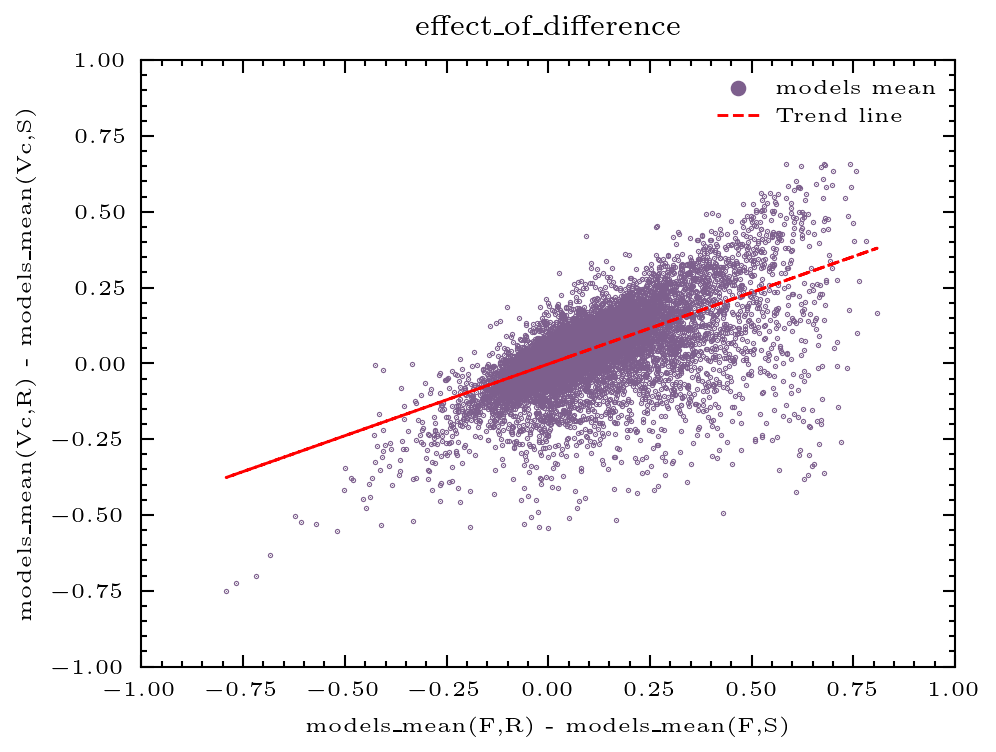
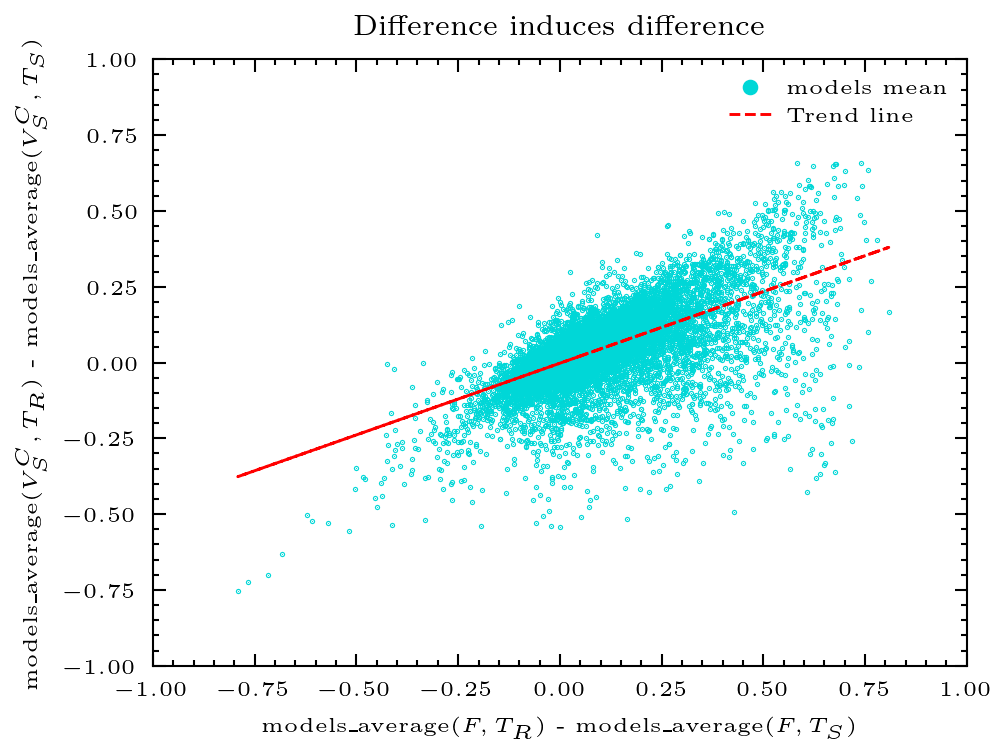
t c

diff --git a/plottings/PerLaTesi/Appendici/A_1/TS_comparison.py b/plottings/PerLaTesi/Appendici/A_1/TS_comparison.py
@@ -1,0 +1,90 @@
+import numpy as np
+import matplotlib
+import pandas as pd
+import matplotlib.pyplot as plt
+import scienceplots
+
+plt.style.use(['science', 'scatter'])
+
+df = pd.read_csv('../../with_mean.csv')
+
+
+for round in [1,2,4,5]:
+    df[f'D(clip_flant(Vc_{round},R),clip_flant(Vc_{round},S))'] = df[f'clip_flant(Vc_{round},R)'] - df[f'clip_flant(Vc_{round},S)']
+    df[f'D(clip_flant(Vu_{round},R),clip_flant(Vu_{round},S))'] = df[f'clip_flant(Vu_{round},R)'] - df[f'clip_flant(Vu_{round},S)']
+    df[f'D(clip_flant(Vu_{round},S),clip_flant(Vc_{round},S))'] = df[f'clip_flant(Vu_{round},S)'] - df[f'clip_flant(Vc_{round},S)']
+    df[f'D(clip_flant(Vu_{round},R),clip_flant(Vc_{round},R))'] = df[f'clip_flant(Vu_{round},R)'] - df[f'clip_flant(Vc_{round},R)']
+    df[f'D(llava(Vc_{round},R),llava(Vc_{round},S))'] = df[f'llava(Vc_{round},R)'] - df[f'llava(Vc_{round},S)']
+    df[f'D(llava(Vu_{round},R),llava(Vu_{round},S))'] = df[f'llava(Vu_{round},R)'] - df[f'llava(Vu_{round},S)']
+    df[f'D(llava(Vu_{round},S),llava(Vc_{round},S))'] = df[f'llava(Vu_{round},S)'] - df[f'llava(Vc_{round},S)']
+    df[f'D(llava(Vu_{round},R),llava(Vc_{round},R))'] = df[f'llava(Vu_{round},R)'] - df[f'llava(Vc_{round},R)']
+    df[f'D(instructblip(Vc_{round},R),instructblip(Vc_{round},S))'] = df[f'instructblip(Vc_{round},R)'] - df[f'instructblip(Vc_{round},S)']
+    df[f'D(instructblip(Vu_{round},R),instructblip(Vu_{round},S))'] = df[f'instructblip(Vu_{round},R)'] - df[f'instructblip(Vu_{round},S)']
+    df[f'D(instructblip(Vu_{round},S),instructblip(Vc_{round},S))'] = df[f'instructblip(Vu_{round},S)'] - df[f'instructblip(Vc_{round},S)']
+    df[f'D(instructblip(Vu_{round},R),instructblip(Vc_{round},R))'] = df[f'instructblip(Vu_{round},R)'] - df[f'instructblip(Vc_{round},R)']
+
+df[f'D(mean(Vc,R),mean(Vc,S))'] = df[f'mean(Vc,R)'] - df[f'mean(Vc,S)']
+df[f'D(mean(Vu,R),mean(Vu,S))'] = df[f'mean(Vu,R)'] - df[f'mean(Vu,S)']
+df[f'D(mean(Vu,S),mean(Vc,S))'] = df[f'mean(Vu,S)'] - df[f'mean(Vc,S)']
+df[f'D(mean(Vu,R),mean(Vc,R))'] = df[f'mean(Vu,R)'] - df[f'mean(Vc,R)']
+
+df[f'D(llava(Vc,R),llava(Vc,S))'] = df[f'llava(Vc_mean,R)'] - df[f'llava(Vc_mean,S)']
+df[f'D(llava(Vu,R),llava(Vu,S))'] = df[f'llava(Vu_mean,R)'] - df[f'llava(Vu_mean,S)']
+df[f'D(llava(Vu,S),llava(Vc,S))'] = df[f'llava(Vu_mean,S)'] - df[f'llava(Vc_mean,S)']
+df[f'D(llava(Vu,R),llava(Vc,R))'] = df[f'llava(Vu_mean,R)'] - df[f'llava(Vc_mean,R)']
+
+df[f'D(instructblip(Vc,R),instructblip(Vc,S))'] = df[f'instructblip(Vc_mean,R)'] - df[f'instructblip(Vc_mean,S)']
+df[f'D(instructblip(Vu,R),instructblip(Vu,S))'] = df[f'instructblip(Vu_mean,R)'] - df[f'instructblip(Vu_mean,S)']
+df[f'D(instructblip(Vu,S),instructblip(Vc,S))'] = df[f'instructblip(Vu_mean,S)'] - df[f'instructblip(Vc_mean,S)']
+df[f'D(instructblip(Vu,R),instructblip(Vc,R))'] = df[f'instructblip(Vu_mean,R)'] - df[f'instructblip(Vc_mean,R)']
+
+df[f'D(clip_flant(Vc,R),clip_flant(Vc,S))'] = df[f'clip_flant(Vc_mean,R)'] - df[f'clip_flant(Vc_mean,S)']
+df[f'D(clip_flant(Vu,R),clip_flant(Vu,S))'] = df[f'clip_flant(Vu_mean,R)'] - df[f'clip_flant(Vu_mean,S)']
+df[f'D(clip_flant(Vu,S),clip_flant(Vc,S))'] = df[f'clip_flant(Vu_mean,S)'] - df[f'clip_flant(Vc_mean,S)']
+df[f'D(clip_flant(Vu,R),clip_flant(Vc,R))'] = df[f'clip_flant(Vu_mean,R)'] - df[f'clip_flant(Vc_mean,R)']
+
+size = 0.6
+transparency = 1
+
+plt.rcParams.update({'font.size': 9})
+
+fig, ax = plt.subplots(1, 3, figsize=(15, 5))
+
+fig.suptitle('Synthetic caption',fontsize=11)
+
+ax[0].scatter(df['llava(F,S)'], df['llava(Vc_mean,S)'], c='#145d9e',marker='.', s=size, alpha=transparency)
+ax[0].set_xlabel('llava($F,T_S$)')
+ax[0].set_ylabel('llava($V_S^C,T_S$)')
+ax[0].set_title('llava')
+ax[0].set_xlim([0,1])
+ax[0].set_ylim([0,1])
+z = np.polyfit(df['llava(F,S)'], df['llava(Vc_mean,S)'], 1)
+p = np.poly1d(z)
+ax[0].plot(df['llava(F,S)'], p(df['llava(F,S)']),"r-", label='Trend line')
+
+
+ax[1].scatter(df['clip_flant(F,S)'], df['clip_flant(Vc_mean,S)'], c='#f79410',marker='.', s=size, alpha=transparency)
+ax[1].set_xlabel('clip_flant($F,T_S$)')
+ax[1].set_ylabel('clip_flant($V_S^C,T_S$)')
+ax[1].set_title('clip_flant')
+ax[1].set_xlim([0,1])
+ax[1].set_ylim([0,1])
+z = np.polyfit(df['clip_flant(F,S)'], df['clip_flant(Vc_mean,S)'], 1)
+p = np.poly1d(z)
+ax[1].plot(df['clip_flant(F,S)'], p(df['clip_flant(F,S)']),"r-", label='Trend line')
+
+ax[2].scatter(df['instructblip(F,S)'], df['instructblip(Vc_mean,S)'], c='#0cb14d',marker='.', s=size, alpha=transparency)
+ax[2].set_xlabel('instructblip($F,T_S$)')
+ax[2].set_ylabel('instructblip($V_S^C,T_S$)')
+ax[2].set_title('instructblip')
+ax[2].set_xlim([0,1])
+ax[2].set_ylim([0,1])
+z = np.polyfit(df['instructblip(F,S)'], df['instructblip(Vc_mean,S)'], 1)
+p = np.poly1d(z)
+ax[2].plot(df['instructblip(F,S)'], p(df['instructblip(F,S)']),"r-", label='Trend line')
+
+fig.set_tight_layout(tight=True)
+plt.savefig(f'A1_TS_comparison.png', dpi=300)
+plt.clf()
+
+matplotlib.pyplot.close()

diff --git a/plottings/PerLaTesi/Appendici/A_1/TR_comparison.py b/plottings/PerLaTesi/Appendici/A_1/TR_comparison.py
@@ -1,0 +1,90 @@
+import numpy as np
+import matplotlib
+import pandas as pd
+import matplotlib.pyplot as plt
+import scienceplots
+
+plt.style.use(['science', 'scatter'])
+
+df = pd.read_csv('../../with_mean.csv')
+
+
+for round in [1,2,4,5]:
+    df[f'D(clip_flant(Vc_{round},R),clip_flant(Vc_{round},S))'] = df[f'clip_flant(Vc_{round},R)'] - df[f'clip_flant(Vc_{round},S)']
+    df[f'D(clip_flant(Vu_{round},R),clip_flant(Vu_{round},S))'] = df[f'clip_flant(Vu_{round},R)'] - df[f'clip_flant(Vu_{round},S)']
+    df[f'D(clip_flant(Vu_{round},S),clip_flant(Vc_{round},S))'] = df[f'clip_flant(Vu_{round},S)'] - df[f'clip_flant(Vc_{round},S)']
+    df[f'D(clip_flant(Vu_{round},R),clip_flant(Vc_{round},R))'] = df[f'clip_flant(Vu_{round},R)'] - df[f'clip_flant(Vc_{round},R)']
+    df[f'D(llava(Vc_{round},R),llava(Vc_{round},S))'] = df[f'llava(Vc_{round},R)'] - df[f'llava(Vc_{round},S)']
+    df[f'D(llava(Vu_{round},R),llava(Vu_{round},S))'] = df[f'llava(Vu_{round},R)'] - df[f'llava(Vu_{round},S)']
+    df[f'D(llava(Vu_{round},S),llava(Vc_{round},S))'] = df[f'llava(Vu_{round},S)'] - df[f'llava(Vc_{round},S)']
+    df[f'D(llava(Vu_{round},R),llava(Vc_{round},R))'] = df[f'llava(Vu_{round},R)'] - df[f'llava(Vc_{round},R)']
+    df[f'D(instructblip(Vc_{round},R),instructblip(Vc_{round},S))'] = df[f'instructblip(Vc_{round},R)'] - df[f'instructblip(Vc_{round},S)']
+    df[f'D(instructblip(Vu_{round},R),instructblip(Vu_{round},S))'] = df[f'instructblip(Vu_{round},R)'] - df[f'instructblip(Vu_{round},S)']
+    df[f'D(instructblip(Vu_{round},S),instructblip(Vc_{round},S))'] = df[f'instructblip(Vu_{round},S)'] - df[f'instructblip(Vc_{round},S)']
+    df[f'D(instructblip(Vu_{round},R),instructblip(Vc_{round},R))'] = df[f'instructblip(Vu_{round},R)'] - df[f'instructblip(Vc_{round},R)']
+
+df[f'D(mean(Vc,R),mean(Vc,S))'] = df[f'mean(Vc,R)'] - df[f'mean(Vc,S)']
+df[f'D(mean(Vu,R),mean(Vu,S))'] = df[f'mean(Vu,R)'] - df[f'mean(Vu,S)']
+df[f'D(mean(Vu,S),mean(Vc,S))'] = df[f'mean(Vu,S)'] - df[f'mean(Vc,S)']
+df[f'D(mean(Vu,R),mean(Vc,R))'] = df[f'mean(Vu,R)'] - df[f'mean(Vc,R)']
+
+df[f'D(llava(Vc,R),llava(Vc,S))'] = df[f'llava(Vc_mean,R)'] - df[f'llava(Vc_mean,S)']
+df[f'D(llava(Vu,R),llava(Vu,S))'] = df[f'llava(Vu_mean,R)'] - df[f'llava(Vu_mean,S)']
+df[f'D(llava(Vu,S),llava(Vc,S))'] = df[f'llava(Vu_mean,S)'] - df[f'llava(Vc_mean,S)']
+df[f'D(llava(Vu,R),llava(Vc,R))'] = df[f'llava(Vu_mean,R)'] - df[f'llava(Vc_mean,R)']
+
+df[f'D(instructblip(Vc,R),instructblip(Vc,S))'] = df[f'instructblip(Vc_mean,R)'] - df[f'instructblip(Vc_mean,S)']
+df[f'D(instructblip(Vu,R),instructblip(Vu,S))'] = df[f'instructblip(Vu_mean,R)'] - df[f'instructblip(Vu_mean,S)']
+df[f'D(instructblip(Vu,S),instructblip(Vc,S))'] = df[f'instructblip(Vu_mean,S)'] - df[f'instructblip(Vc_mean,S)']
+df[f'D(instructblip(Vu,R),instructblip(Vc,R))'] = df[f'instructblip(Vu_mean,R)'] - df[f'instructblip(Vc_mean,R)']
+
+df[f'D(clip_flant(Vc,R),clip_flant(Vc,S))'] = df[f'clip_flant(Vc_mean,R)'] - df[f'clip_flant(Vc_mean,S)']
+df[f'D(clip_flant(Vu,R),clip_flant(Vu,S))'] = df[f'clip_flant(Vu_mean,R)'] - df[f'clip_flant(Vu_mean,S)']
+df[f'D(clip_flant(Vu,S),clip_flant(Vc,S))'] = df[f'clip_flant(Vu_mean,S)'] - df[f'clip_flant(Vc_mean,S)']
+df[f'D(clip_flant(Vu,R),clip_flant(Vc,R))'] = df[f'clip_flant(Vu_mean,R)'] - df[f'clip_flant(Vc_mean,R)']
+
+size = 0.6
+transparency = 1
+
+plt.rcParams.update({'font.size': 9})
+
+fig, ax = plt.subplots(1, 3, figsize=(15, 5))
+
+fig.suptitle('Real caption',fontsize=11)
+
+ax[0].scatter(df['llava(F,R)'], df['llava(Vc_mean,R)'], c='#145d9e',marker='.', s=size, alpha=transparency)
+ax[0].set_xlabel('llava($F,T_R$)')
+ax[0].set_ylabel('llava($V_S^C,T_R$)')
+ax[0].set_title('llava')
+ax[0].set_xlim([0,1])
+ax[0].set_ylim([0,1])
+z = np.polyfit(df['llava(F,R)'], df['llava(Vc_mean,R)'], 1)
+p = np.poly1d(z)
+ax[0].plot(df['llava(F,R)'], p(df['llava(F,R)']),"r-", label='Trend line')
+
+
+ax[1].scatter(df['clip_flant(F,R)'], df['clip_flant(Vc_mean,R)'], c='#f79410',marker='.', s=size, alpha=transparency)
+ax[1].set_xlabel('clip_flant($F,T_R$)')
+ax[1].set_ylabel('clip_flant($V_S^C,T_R$)')
+ax[1].set_title('clip_flant')
+ax[1].set_xlim([0,1])
+ax[1].set_ylim([0,1])
+z = np.polyfit(df['clip_flant(F,R)'], df['clip_flant(Vc_mean,R)'], 1)
+p = np.poly1d(z)
+ax[1].plot(df['clip_flant(F,R)'], p(df['clip_flant(F,R)']),"r-", label='Trend line')
+
+ax[2].scatter(df['instructblip(F,R)'], df['instructblip(Vc_mean,R)'], c='#0cb14d',marker='.', s=size, alpha=transparency)
+ax[2].set_xlabel('instructblip($F,T_R$)')
+ax[2].set_ylabel('instructblip($V_S^C,T_R$)')
+ax[2].set_title('instructblip')
+ax[2].set_xlim([0,1])
+ax[2].set_ylim([0,1])
+z = np.polyfit(df['instructblip(F,R)'], df['instructblip(Vc_mean,R)'], 1)
+p = np.poly1d(z)
+ax[2].plot(df['instructblip(F,R)'], p(df['instructblip(F,R)']),"r-", label='Trend line')
+
+fig.set_tight_layout(tight=True)
+plt.savefig(f'A1_TR_comparison.png', dpi=300)
+plt.clf()
+
+matplotlib.pyplot.close()

diff --git a/plottings/PerLaTesi/6.py b/plottings/PerLaTesi/6.py
@@ -27,25 +27,31 @@ df[f'D(mean(Vu,R),mean(Vu,S))'] = df[f'mean(Vu,R)'] - df[f'mean(Vu,S)']
 df[f'D(mean(Vu,S),mean(Vc,S))'] = df[f'mean(Vu,S)'] - df[f'mean(Vc,S)']
 df[f'D(mean(Vu,R),mean(Vc,R))'] = df[f'mean(Vu,R)'] - df[f'mean(Vc,R)']
 
-size = 0.6
+size = 1
 transparency = 1
 
 plt.rcParams.update({'font.size': 9})
 fig, ax = plt.subplots(1, 2, figsize=(10, 5))
 
-fig.suptitle('Unconditional and conditional comparison',fontsize=11)
+#fig.suptitle('Unconditional and conditional comparison',fontsize=11)
 
-ax[0].scatter(df['D(mean_wv(F,R),mean_wv(F,S))'], df['D(mean_wv(Vc,R),mean_wv(Vc,S))'], c='#f79410',marker='.', s=size, alpha=transparency)
-ax[0].set_xlabel('models_average(F,$T_R$) - models_average(F,$T_S$)')
-ax[0].set_ylabel('models_average($V_S^C$,$T_R$) - models_average($V_S^C$,$T_S$)')
+ax[0].scatter(df['D(mean_wv(F,R),mean_wv(F,S))'], df['D(mean_wv(Vc,R),mean_wv(Vc,S))'], c='#00D7D7',marker='.', s=size, alpha=transparency)
+ax[0].set_xlabel('models_average($F,T_R$) - models_average($F,T_S$)')
+ax[0].set_ylabel('models_average($V_S^C,T_R$) - models_average($V_S^C,T_S$)')
 ax[0].set_title('Conditioned')
+z = np.polyfit(df['D(mean_wv(F,R),mean_wv(F,S))'], df['D(mean_wv(Vc,R),mean_wv(Vc,S))'], 1)
+p = np.poly1d(z)
+ax[0].plot(df['D(mean_wv(F,R),mean_wv(F,S))'], p(df['D(mean_wv(F,R),mean_wv(F,S))']), "r--",linewidth=0.7, label='Trend line')
 #ax[0].set_xlim(xlim)
 #ax[0].set_ylim(ylim)
 
-ax[1].scatter(df['D(mean_wv(F,R),mean_wv(F,S))'], df['D(mean_wv(Vu,R),mean_wv(Vu,S))'], c='#145d9e',marker='.', s=size, alpha=transparency)
-ax[1].set_xlabel('models_average(F,$T_R$) - models_average(F,$T_S$)')
-ax[1].set_ylabel('models_average($V_S^U$,$T_R$) - models_average($V_S^U$,$T_S$)')
+ax[1].scatter(df['D(mean_wv(F,R),mean_wv(F,S))'], df['D(mean_wv(Vu,R),mean_wv(Vu,S))'], c='#f79410',marker='.', s=size, alpha=transparency)
+ax[1].set_xlabel('models_average($F,T_R$) - models_average($F,T_S$)')
+ax[1].set_ylabel('models_average($V_S^U,T_R$) - models_average($V_S^U,T_S$)')
 ax[1].set_title('Unconditioned')
+z = np.polyfit(df['D(mean_wv(F,R),mean_wv(F,S))'], df['D(mean_wv(Vu,R),mean_wv(Vu,S))'], 1)
+p = np.poly1d(z)
+ax[1].plot(df['D(mean_wv(F,R),mean_wv(F,S))'], p(df['D(mean_wv(F,R),mean_wv(F,S))']), "r--",linewidth=0.7, label='Trend line')
 #ax[1].set_xlim(xlim)
 #ax[1].set_ylim(ylim)
 fig.set_tight_layout(tight=True)

diff --git a/plottings/PerLaTesi/3.py b/plottings/PerLaTesi/3.py
@@ -27,7 +27,7 @@ df[f'D(mean(Vu,R),mean(Vu,S))'] = df[f'mean(Vu,R)'] - df[f'mean(Vu,S)']
 df[f'D(mean(Vu,S),mean(Vc,S))'] = df[f'mean(Vu,S)'] - df[f'mean(Vc,S)']
 df[f'D(mean(Vu,R),mean(Vc,R))'] = df[f'mean(Vu,R)'] - df[f'mean(Vc,R)']
 
-size = 0.5
+size = 1
 transparency = 1  # df[y]
 
 fig, ax = plt.subplots(1, 2, figsize=(10, 5))
@@ -35,18 +35,20 @@ plt.rcParams.update({'font.size': 7})
 
 fig.suptitle('Simple conditional generation trends', fontsize=9)
 
-ax[0].scatter(df['mean_wv(F,R)'], df['mean_wv(Vc,R)'], c='#7d5f8d',marker='.', s=size, alpha=transparency)
-ax[0].set_xlabel('models_average(F,R)')
-ax[0].set_ylabel('models_average(Vc,R)')
+ax[0].scatter(df['mean_wv(F,R)'], df['mean_wv(Vc,R)'], c='#00D7D7',marker='.', s=size, alpha=transparency)
+ax[0].set_xlabel('models_average($F,T_R$)')
+ax[0].set_ylabel('models_average($V_S^C,T_R$)')
+ax[0].set_title('Real caption')
 #ax[0].set_xlim(xlim)
 #ax[0].set_ylim(ylim)
 z = np.polyfit(df['mean_wv(F,R)'], df['mean_wv(Vc,R)'], 1)
 p = np.poly1d(z)
 ax[0].plot(df['mean_wv(F,R)'], p(df['mean_wv(F,R)']), "r--",linewidth=0.7, label='Trend line')
 
-ax[1].scatter(df['mean_wv(F,S)'], df['mean_wv(Vc,S)'], c='#7d5f8d',marker='.', s=size, alpha=transparency)
-ax[1].set_xlabel('models_average(F,S)')
-ax[1].set_ylabel('models_average(Vc,S)')
+ax[1].scatter(df['mean_wv(F,S)'], df['mean_wv(Vc,S)'], c='#00D7D7',marker='.', s=size, alpha=transparency)
+ax[1].set_xlabel('models_average($F,T_S$)')
+ax[1].set_ylabel('models_average($V_S^C,T_S$)')
+ax[1].set_title('Synthetic caption')
 #ax[1].set_xlim(xlim)
 #ax[1].set_ylim(ylim)
 z = np.polyfit(df['mean_wv(F,S)'], df['mean_wv(Vc,S)'], 1)
@@ -55,9 +57,9 @@ ax[1].plot(df['mean_wv(F,S)'], p(df['mean_wv(F,S)']), "r--",linewidth=0.7, label
 fig.set_tight_layout(tight=True)
 
 
-plt.legend(['models mean','Trend line'], markerscale=15, ncol=1, bbox_to_anchor=(1, 1))
+plt.legend(['models average','Trend line'], markerscale=8, ncol=1, loc=4)
 
-plt.savefig(f'plots/P3.png', dpi=300)
+plt.savefig(f'plots/P3_basic_relations.png', dpi=300)
 plt.clf()
 
 matplotlib.pyplot.close()

diff --git a/plottings/PerLaTesi/1.py b/plottings/PerLaTesi/1.py
@@ -1,6 +1,7 @@
 import pandas as pd
 import matplotlib.pyplot as plt
 import scienceplots
+from scipy.ndimage import label
 
 plt.style.use(['science','scatter'])
 
@@ -19,20 +20,22 @@ size = 0.15
 transparency = 0.7
 plt.rcParams.update({'font.size': 5})
 
-ds = df.sort_values('clip_flant(Vc_mean,R)',ascending=True)
+ds = df.sort_values('clip_flant(Vc_mean,S)',ascending=True)
 
 ds.reset_index(drop=True, inplace=True)
 
 plt.title("Models correlation for conditional videos",fontsize=7)
-plt.scatter(ds.index.values, ds['videocon(Vc_mean,R)'],c='#f79410',s=size,alpha=transparency,marker='+')
-plt.scatter(ds.index.values, ds['instructblip(Vc_mean,R)'],c='#0cb14d',s=size,alpha=transparency,marker='x')
-plt.scatter(ds.index.values, ds['llava(Vc_mean,R)'],c='#145d9e',s=size,alpha=transparency,marker='+')
-plt.scatter(ds.index.values, ds['clip_flant(Vc_mean,R)'],c='#f13511',s=size,alpha=transparency,marker='x')
+plt.scatter(ds.index.values, ds['videocon(Vc_mean,S)'],c='#f79410',s=size,alpha=transparency,marker='+',label="videocon")
+plt.scatter(ds.index.values, ds['instructblip(Vc_mean,S)'],c='#0cb14d',s=size,alpha=transparency,marker='x',label="instructblip")
+plt.scatter(ds.index.values, ds['llava(Vc_mean,S)'],c='#145d9e',s=size,alpha=transparency,marker='+',label= "llava")
+plt.scatter(ds.index.values, ds['clip_flant(Vc_mean,S)'],c='#f13511',s=size,alpha=transparency,marker='x',label="clip_flant")
 
-plt.text(18000, 0.63, 'Here could\nbe a short\n description\n', fontsize=5, color='black')
+plt.xlabel('video caption pair')
+plt.ylabel('$E(V_S^C,T_S)$')
 
-plt.legend(["videocon", "instructblip", "llava", "clip_flant"], markerscale=10, ncol=1, bbox_to_anchor=(1, 1))
+#plt.text(18000, 0.63, 'Here could\nbe a short\n description\n', fontsize=5, color='black')
 
+legend = plt.legend(facecolor="pink", loc=2,markerscale=10)
 plt.savefig(f'plots/P1_models_correlation_videos.png', dpi=300)
 plt.clf()
 

diff --git a/plottings/PerLaTesi/4.py b/plottings/PerLaTesi/4.py
@@ -32,20 +32,20 @@ transparency = 1  # df[y]
 
 plt.rcParams.update({'font.size': 5})
 
-plt.title('Peggioramento relativo dei video condizionati', fontsize=7)
+plt.title('Relative degradation of conditioned videos', fontsize=7)
 
-plt.scatter(df['mean_wv(F,R)'], df['D(mean_wv(Vc,R),mean_wv(Vc,S))'], c='#7d5f8d',marker='.', s=size, alpha=transparency)
-plt.xlabel('xlable')
-plt.ylabel('ylable')
+plt.scatter(df['mean_wv(F,R)'], df['D(mean_wv(Vc,R),mean_wv(Vc,S))'], c='#00D7D7',marker='.', s=size, alpha=transparency)
+plt.xlabel('models_average($F,T_R$)')
+plt.ylabel('models_average($V_S^C,T_R$) - models_average($V_S^C,T_S$)')
 plt.xlim([0,1])
 plt.ylim([0,1])
 z = np.polyfit(df['mean_wv(F,R)'], df['D(mean_wv(Vc,R),mean_wv(Vc,S))'], 1)
 p = np.poly1d(z)
 plt.plot(df['mean_wv(F,R)'], p(df['mean_wv(F,R)'])+0.05, "r--",linewidth=0.7, label='Trend line')
 
-plt.legend(['models mean','Trend line'], markerscale=10, ncol=1, bbox_to_anchor=(1, 1))
+plt.legend(['models average','Trend line'], markerscale=10, ncol=1, bbox_to_anchor=(1, 1))
 
-plt.savefig(f'plots/P4.png', dpi=300)
+plt.savefig(f'plots/P4_cond_video_degrading.png', dpi=300)
 plt.clf()
 
 matplotlib.pyplot.close()

diff --git a/plottings/PerLaTesi/7.py b/plottings/PerLaTesi/7.py
@@ -34,14 +34,14 @@ plt.rcParams.update({'font.size': 5})
 
 plt.title('Unconditioned - conditioned trend', fontsize=7)
 
-plt.scatter(df['D(mean_wv(F,R),mean_wv(F,S))'], df['D(mean_wv(Vu,S),mean_wv(Vc,S))'], c='#7d5f8d',marker='.', s=size, alpha=transparency)
+plt.scatter(df['D(mean_wv(F,R),mean_wv(F,S))'], df['D(mean_wv(Vu,S),mean_wv(Vc,S))'], c='#00D7D7',marker='.', s=size, alpha=transparency)
 plt.xlabel('models_average(F,$T_R$) - models_average(F,$T_S$)')
 plt.ylabel('models_average($V_S^U$,$T_S$) - models_average($V_S^C$,$T_S$)')
 plt.xlim([-1,1])
 plt.ylim([-1,1])
 z = np.polyfit(df['D(mean_wv(F,R),mean_wv(F,S))'], df['D(mean_wv(Vu,S),mean_wv(Vc,S))'], 3)
 p = np.poly1d(z)
-plt.scatter(df['D(mean_wv(F,R),mean_wv(F,S))'], p(df['D(mean_wv(F,R),mean_wv(F,S))']), c='#ff0000',marker='.', s=size, label='Trend line')
+plt.scatter(df['D(mean_wv(F,R),mean_wv(F,S))'], p(df['D(mean_wv(F,R),mean_wv(F,S))']), c='#E70000',marker='.', s=size, label='Trend line')
 
 plt.legend(['models mean','Trend line'], markerscale=5, ncol=1,loc=3)
 

diff --git a/plottings/PerLaTesi/5.py b/plottings/PerLaTesi/5.py
@@ -32,11 +32,11 @@ transparency = 1
 
 plt.rcParams.update({'font.size': 5})
 
-plt.title('effect_of_difference', fontsize=7)
+plt.title('Difference induces difference', fontsize=7)
 
-plt.scatter(df['D(mean_wv(F,R),mean_wv(F,S))'], df['D(mean_wv(Vc,R),mean_wv(Vc,S))'], c='#7d5f8d',marker='.', s=size, alpha=transparency)
-plt.xlabel('models_mean(F,R) - models_mean(F,S)')
-plt.ylabel('models_mean(Vc,R) - models_mean(Vc,S)')
+plt.scatter(df['D(mean_wv(F,R),mean_wv(F,S))'], df['D(mean_wv(Vc,R),mean_wv(Vc,S))'], c='#00D7D7',marker='.', s=size, alpha=transparency)
+plt.xlabel('models_average($F,T_R$) - models_average($F,T_S$)')
+plt.ylabel('models_average($V_S^C,T_R$) - models_average($V_S^C,T_S$)')
 plt.xlim([-1,1])
 plt.ylim([-1,1])
 z = np.polyfit(df['D(mean_wv(F,R),mean_wv(F,S))'], df['D(mean_wv(Vc,R),mean_wv(Vc,S))'], 1)

diff --git a/plottings/PerLaTesi/2.py b/plottings/PerLaTesi/2.py
@@ -46,7 +46,7 @@ transparency = 1  # df[y]
 
 plt.rcParams.update({'font.size': 5})
 plt.title('DIFF(mean_wv(F,R),mean_wv(F,S)) vs DIFF(mean_wv(Vc,R),mean_wv(Vc,S))',fontsize=7)
-plt.scatter(df['D(mean_wv(F,R),mean_wv(F,S))'], df['D(mean_wv(Vc,R),mean_wv(Vc,S))'], s=size,c='#7d5f8d',marker='.', alpha=transparency)
+plt.scatter(df['D(mean_wv(F,R),mean_wv(F,S))'], df['D(mean_wv(Vc,R),mean_wv(Vc,S))'], s=size,c='#00D7D7',marker='.', alpha=transparency)
 
 z = np.polyfit(df['D(mean_wv(F,R),mean_wv(F,S))'], df['D(mean_wv(Vc,R),mean_wv(Vc,S))'], 1)  # TODO polinomial fit for trends HOOOOOOOO
 p = np.poly1d(z)
